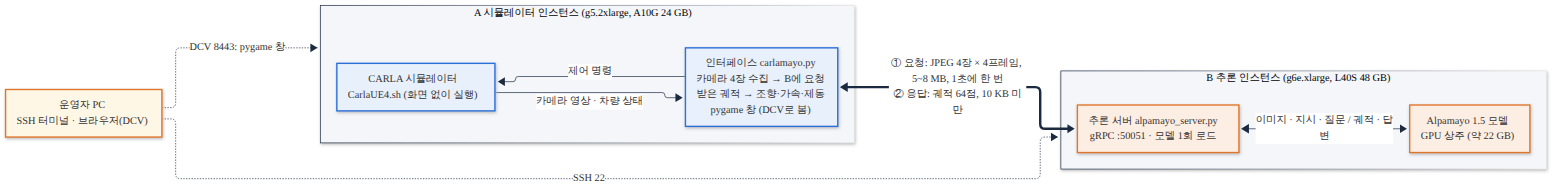
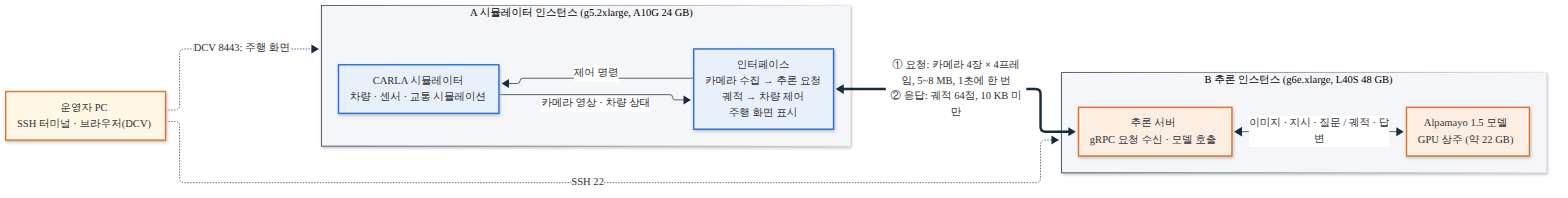
Fill the user guide with the second environment's details
Diagram labels describe functions instead of file names. The instance
table carries the real names, IDs, private IPs, OS and key pair, and
commands use B's address directly. The DCV section gains the login and
a note that 26.04 allows only a virtual session, with its usability
cost and the 22.04/24.04 console-session alternative. Measurement gets
a "being refined" mark and the --no-profile option; the one-shot check
section states that B's server must be running.

Claude-Session: https://claude.ai/code/session_014hsbQ6ZN1HebY2TUSnw9rD

diff --git a/docs/distributed/user-guide.md b/docs/distributed/user-guide.md
@@ -45,14 +45,15 @@
 | 항목 | 인스턴스 A (시뮬레이터) | 인스턴스 B (추론) |
 |---|---|---|
 | 역할 | CARLA 서버, 인터페이스 `carlamayo.py`, pygame 화면 | 추론 서버 `alpamayo_server.py`, Alpamayo 1.5 모델 |
+| 인스턴스 이름 | `vs-advancedsw-lgadas-simulator-2` | `vs-advancedse-alpamayo-2` |
+| 인스턴스 ID | `i-070688c185887959c` | `i-0d31463ea29c72110` |
 | 인스턴스 타입 | g5.2xlarge (A10G 24 GB) | g6e.xlarge (L40S 48 GB) |
-| 인스턴스 ID | `<i-...>` | `<i-...>` |
-| 사설 IP | `<A_IP>` | `<B_IP>` |
-| 공인 IP / DNS | `<...>` | `<...>` |
-| SSH | `ssh -i <pem> ubuntu@<A 공인 IP>` | `ssh -i <pem> ubuntu@<B 공인 IP>` |
-| 화면 접속 | NICE DCV `https://<A 공인 IP>:8443`, 계정 `ubuntu`, 세션 `simulator-session` (`<가상(XFCE) / 콘솔(GNOME)>`) | 없음 |
-| OS | Ubuntu `<버전>` | Ubuntu `<버전>` |
-| 키페어 | `<이름>.pem` (보관자 `<이름>`) | 동일 |
+| 사설 IP | `172.31.51.167` | `172.31.31.226` |
+| 공인 IP | 탄력적 IP 미설정. AWS 콘솔의 인스턴스 화면에서 확인한다(stop/start 시 변경됨) | 동일 |
+| SSH | `ssh -i vs-advancesw.pem ubuntu@<A 공인 IP>` | `ssh -i vs-advancesw.pem ubuntu@<B 공인 IP>` |
+| 화면 접속 | NICE DCV `https://<A 공인 IP>:8443`, 가상 세션(XFCE) `simulator-session`. 계정은 §3.2 | 없음 |
+| OS | Ubuntu 26.04 LTS | Ubuntu 26.04 LTS |
+| 키페어 | `vs-advancesw.pem` | 동일 |
 
 - 두 인스턴스는 구성과 동작 검증이 완료된 상태로 인계한다. 재구성이 필요한 경우 [porting-guide.md](porting-guide.md)를 따른다.
 - B에서는 추론 서버만 실행한다. 실행 모드 전환(open/closed, 비동기, navigation, CFG, VQA)은 모두 A에서 수행한다.
@@ -71,7 +72,7 @@
 ```bash
 tmux new -s server
 cd ~/carlamayo && source a_venv/bin/activate
-python alpamayo_server.py --version 1.5 --host <B_IP> --port 50051
+python alpamayo_server.py --version 1.5 --host 172.31.31.226 --port 50051
 # Ctrl+B, D 로 세션에서 빠져나온다. 재접속은 tmux attach -t server
 ```
 
@@ -87,12 +88,15 @@ python alpamayo_server.py --version 1.5 --host <B_IP> --port 50051
 start_dcv        # DCV 세션을 확인하고, 없으면 생성한다. 인스턴스 stop/start 후에는 세션이 사라지므로 매번 실행한다
 ```
 
-브라우저에서 `https://<A 공인 IP>:8443`에 접속한다. 자체 서명 인증서 경고는 최초 1회 수락한다. 계정 `ubuntu`로 로그인하면 바탕화면이 표시된다.
+브라우저에서 `https://<A 공인 IP>:8443`에 접속한다. 자체 서명 인증서 경고는 최초 1회 수락한다. 계정 `ubuntu`, 비밀번호 `lge123`으로 로그인하면 바탕화면이 표시된다.
 터미널은 상단 패널의 터미널 아이콘 또는 바탕화면 우클릭 → Applications → Terminal Emulator로 연다.
 
 **정상 동작 기준**
 - `start_dcv` 출력에 `Session: 'simulator-session' ... type:virtual`이 표시된다.
 - 브라우저에 바탕화면과 터미널이 표시되고, 해당 터미널에서 `echo $DISPLAY`가 `:0`을 출력한다.
+
+**알려진 제약.** 본 환경은 Ubuntu 26.04라 DCV를 가상 세션(XFCE)으로만 쓸 수 있다. 26.04의 GNOME 50이 X11 세션을 지원하지 않아 GPU 화면을 직접 중계하는 콘솔 세션이 동작하지 않기 때문이다.
+가상 세션은 소프트웨어 렌더링이라 화면 반응이 느리고 터미널 입력이 밀리는 등 사용성이 떨어진다. 개선하려면 A를 Ubuntu 22.04 또는 24.04로 재구성하여 콘솔 세션(GNOME, GPU 직접 렌더링)을 쓴다([porting-guide.md](porting-guide.md) §0.2, §1.4.2).
 
 ### 3.3 [A] CARLA 서버 실행
 
@@ -114,7 +118,7 @@ cd ~/carla && ./CarlaUE4.sh -RenderOffScreen -quality-level=Epic
 
 ```bash
 cd ~/carlamayo && source venv-sim/bin/activate && export CARLA_ROOT=~/carla
-python carlamayo.py --loop closed --version 1.5 --inference-server <B_IP>:50051 --run-tag sync
+python carlamayo.py --loop closed --version 1.5 --inference-server 172.31.31.226:50051 --run-tag sync
 ```
 
 2~3분 관찰 후 `Esc`로 종료한다. 실행 중 조작은 `Ctrl+P`(일시정지/재개), `Esc`(종료)이다.
@@ -126,7 +130,7 @@ python carlamayo.py --loop closed --version 1.5 --inference-server <B_IP>:50051 
 
 ### 3.5 [A·DCV] 실행 모드 전환
 
-`BASE` = `python carlamayo.py --version 1.5 --inference-server <B_IP>:50051`. 궤적 후보 다중 출력을 제외하고 B는 변경하지 않는다.
+`BASE` = `python carlamayo.py --version 1.5 --inference-server 172.31.31.226:50051`. 궤적 후보 다중 출력을 제외하고 B는 변경하지 않는다.
 
 | 모드 | 명령 | 정상 동작 기준 |
 |---|---|---|
@@ -141,14 +145,14 @@ python carlamayo.py --loop closed --version 1.5 --inference-server <B_IP>:50051 
 # 녹화 데이터가 없는 경우에만 실행 (CARLA 서버 필요, 1~2분 후 Ctrl+C)
 python data_collect.py
 # 녹화 데이터 재생 + 원격 추론
-python carlamayo.py --loop open --version 1.5 --data-root carla_data --inference-server <B_IP>:50051 --run-tag remote
+python carlamayo.py --loop open --version 1.5 --data-root carla_data --inference-server 172.31.31.226:50051 --run-tag remote
 ```
 
 **정상 동작 기준**
 - `Run folder: runs/<run_id>`가 출력되고 프레임마다 `[Frame k] Inference: 2.xx s`가 출력된다.
 - 종료 후 `runs/<run_id>/carla_alpamayo_open_loop_result.mp4`가 생성된다.
 
-### 3.7 [A] 측정 결과 확인 및 회수
+### 3.7 [A] 측정 결과 확인 및 회수 <sub>(측정 항목과 분석 도구는 보완 중)</sub>
 
 ```bash
 RUN=$(ls -t runs | head -1)
@@ -159,6 +163,8 @@ sed -n 1,30p runs/$RUN/summary.md
 **정상 동작 기준**
 - `summary.md`의 headline에 `rtt_mean_s`(왕복 시간), `inference_mean_s`(모델 추론 시간), `overhead_mean_s`(분리로 인한 오버헤드), `request_mb`(요청 크기)가 기록된다.
 - 그래프는 `runs/$RUN/plots/`에 생성된다.
+
+측정이 필요 없으면 실행 명령에 `--no-profile`을 추가한다. 프로파일 CSV를 기록하지 않으며, 영상과 로그가 담기는 결과 폴더 `runs/<run_id>/`는 그대로 생성된다.
 
 결과 회수: 로컬 PC에서 `scp -i <pem> -r ubuntu@<A 공인 IP>:~/carlamayo/runs/<run_id> ./results/`
 
@@ -173,14 +179,16 @@ sed -n 1,30p runs/$RUN/summary.md
 
 ### 3.9 일괄 점검
 
-문제 위치가 불명확한 경우 다음 스크립트가 환경·연결·서버 상태를 PASS/FAIL로 출력한다.
+문제 위치가 불명확한 경우 다음 스크립트가 환경·연결·서버 상태를 PASS/FAIL로 출력한다. 두 스크립트 모두 **B의 추론 서버(3.1)가 실행 중이어야** 서버·연결 항목이 PASS가 된다. CARLA 서버는 필요하지 않다.
 
 ```bash
-# [B]
+# [B]  서버 실행 후
 deploy/scripts/verify-inference-host.sh --serving
-# [A]
+# [A]  B 서버 실행 후
 deploy/scripts/verify-sim-host.sh --link
 ```
+
+옵션(`--serving`, `--link`) 없이 실행하면 서버 없이도 각 인스턴스의 환경 항목(드라이버, venv, 의존성, `hosts.env`)만 점검한다.
 
 ---
 
@@ -188,7 +196,7 @@ deploy/scripts/verify-sim-host.sh --link
 
 | 증상 | 원인 및 조치 |
 |---|---|
-| `no inference server at <B_IP>:50051 after 30s` | B의 추론 서버가 실행 중이 아니다. [B] `ss -ltnp \| grep 50051`로 확인 후 3.1 수행. 실행 중이면 [A] `nc -zv <B_IP> 50051`로 연결 확인 |
+| `no inference server at 172.31.31.226:50051 after 30s` | B의 추론 서버가 실행 중이 아니다. [B] `ss -ltnp \| grep 50051`로 확인 후 3.1 수행. 실행 중이면 [A] `nc -zv 172.31.31.226 50051`로 연결 확인 |
 | `nc` 응답 없음 (timed out) | B 보안그룹이 A의 TCP 22·50051을 허용하지 않는다. B 인바운드에 A의 보안그룹 ID를 추가 |
 | `server is not warmed up` | 모델 로드·워밍업 진행 중. B 로그에 `SERVING`이 출력될 때까지 대기 |
 | B 로그에 `401`/`403` | Hugging Face 모델 접근 권한 미승인 또는 계정 불일치. porting-guide §4.2 |
@@ -210,7 +218,7 @@ deploy/scripts/verify-sim-host.sh --link
 - VQA는 차량 정지 상태에서만 동작한다.
 - 영상은 메모리에 누적 후 종료 시 저장된다(1080p 10분 ≈ 6 GB). 2~3분 단위로 나누어 실행한다.
 - `DISPLAY` 환경변수는 pygame 창에만 필요하다. CARLA 서버, 추론 서버, open-loop, 측정은 `DISPLAY` 없이 실행하며 `~/.bashrc`에 고정하지 않는다.
-- 스크립트(`deploy/scripts/*`, `tools/fetch_server_profile.sh`)는 `deploy/hosts.env`의 주소를 사용한다. 명령줄의 `<B_IP>`는 직접 입력한다.
+- 스크립트(`deploy/scripts/*`, `tools/fetch_server_profile.sh`)는 `deploy/hosts.env`의 주소를 사용한다. 명령줄의 B 주소(`172.31.31.226`)는 직접 입력한다.
 - Hugging Face 토큰은 B에만 둔다. gRPC는 VPC 내부 평문 통신이며 50051 포트를 외부에 개방하지 않는다.
 
 ---

diff --git a/docs/distributed/changes-from-upstream.md b/docs/distributed/changes-from-upstream.md
@@ -80,6 +80,7 @@
 
 | 2026-09-30 | 문서 정리 | `docs/distributed/`(이동) | 이 포크에서 추가한 문서·ADR·다이어그램을 `docs/distributed/`로 옮겨 업스트림 원본(`docs/*.md`)과 구분. 링크 전부 갱신 | 업스트림 문서와 한눈에 구분, 동기화 시 충돌 방지 | - |
 | 2026-09-30 | 문서(데모 장표) | `docs/distributed/demo-overview.pptx`, `demo-overview-short.pptx` | 라이브 데모 오버뷰 PPT 두 벌: 요약(6장: 시스템 구성, 원래 open-loop 환경 비교, 보여줄 것, 시사점, 용어집)과 전체(15장: + 데이터 교환, 진행 순서·명령, 측정 체계, 예상 병목, 다음 단계, 변경 요약). 실측 칸은 `[실측 후 기입]`. 비교표의 "공식 Alpamayo open-loop 테스트" 열은 NVIDIA 공식 노트북 환경(PhysicalAI-AV 클립 재생, minADE)이며 Carlamayo 자체 open-loop와 구분 | 데모 발표 자료 요청 | - |
+| 2026-10-13 | 사용 설명서 3차 | `docs/distributed/user-guide.md`, `diagrams/handover-overview.{svg,png,mmd}` | 구성도에서 파일명을 빼고 기능 설명으로(인터페이스, 추론 서버). §2 표에 환경 2 실제 값(인스턴스 이름·ID·사설 IP·OS·키페어, 공인 IP는 탄력적 IP 미설정) 기입, 명령의 B 주소 실제 값으로. §3.2에 DCV 계정과 "알려진 제약"(26.04 → 가상 세션만, 사용성 저하, 22.04/24.04 콘솔 세션으로 개선). §3.7에 보완 중 표기와 `--no-profile`. §3.9에 B 서버 실행 전제 명시 | 사용자 피드백 | - |
 | 2026-10-13 | 사용 설명서 2차 | `docs/distributed/user-guide.md`, `README.md` | 보고서 문체로 전면 수정. "처음 한 번" 절 삭제(구성은 porting-guide, 인계 시점에 완료 상태). 절 구성: 개요(시스템 개요·출처·지원 기능), 시스템 구성, 운영 절차(각 단계에 정상 동작 기준), 문제 해결, 유의 사항, 참고 문서 | 사용자 피드백: 사용법·확인 위주, 포멀한 문체 | - |
 | 2026-10-13 | 사용 설명서 | `docs/distributed/user-guide.md`(신규, `handover-page.md` 대체), `diagrams/handover-overview.{svg,png,mmd}`, `diagrams/README.md`, `README.md` | 받은 사람 기준으로 재구성: 개요(무엇·출처·볼 수 있는 것), 환경 그림(A: 시뮬레이터→인터페이스, B: 서버→모델, 요청/응답, DCV·SSH), 받은 것 표, 처음 한 번, 매번 순서를 B 서버 → **DCV 접속** → CARLA → closed-loop → 모드 → open-loop → 측정 → 끝내기로 두고 각 단계에 "확인"을 붙임. 안 될 때·알아둘 것·더 보기. README 상단에 안내 추가 | 인수인계 문서를 사용법·검증 위주로 | - |
 | 2026-10-13 | 환경 2 검증 기록 | `docs/distributed/validation-checklist.md`, `porting-guide.md` §9, `changes-from-upstream.md`, `docs/environment-setup.md` §1.2 | 체크리스트 머리에 환경별(1: 22.04 콘솔, 2: 26.04 가상·SDPA) 진행 상태 표, flash-attn 주의점에 환경 2 사례, 가이드 §9에 "실제로 통과한 조합" 표, 테스트 수 176으로 갱신, 업스트림 환경 문서에 Python 3.10~3.12 한 줄 | 포팅 §6.4 통과 시점 기록 | - |
